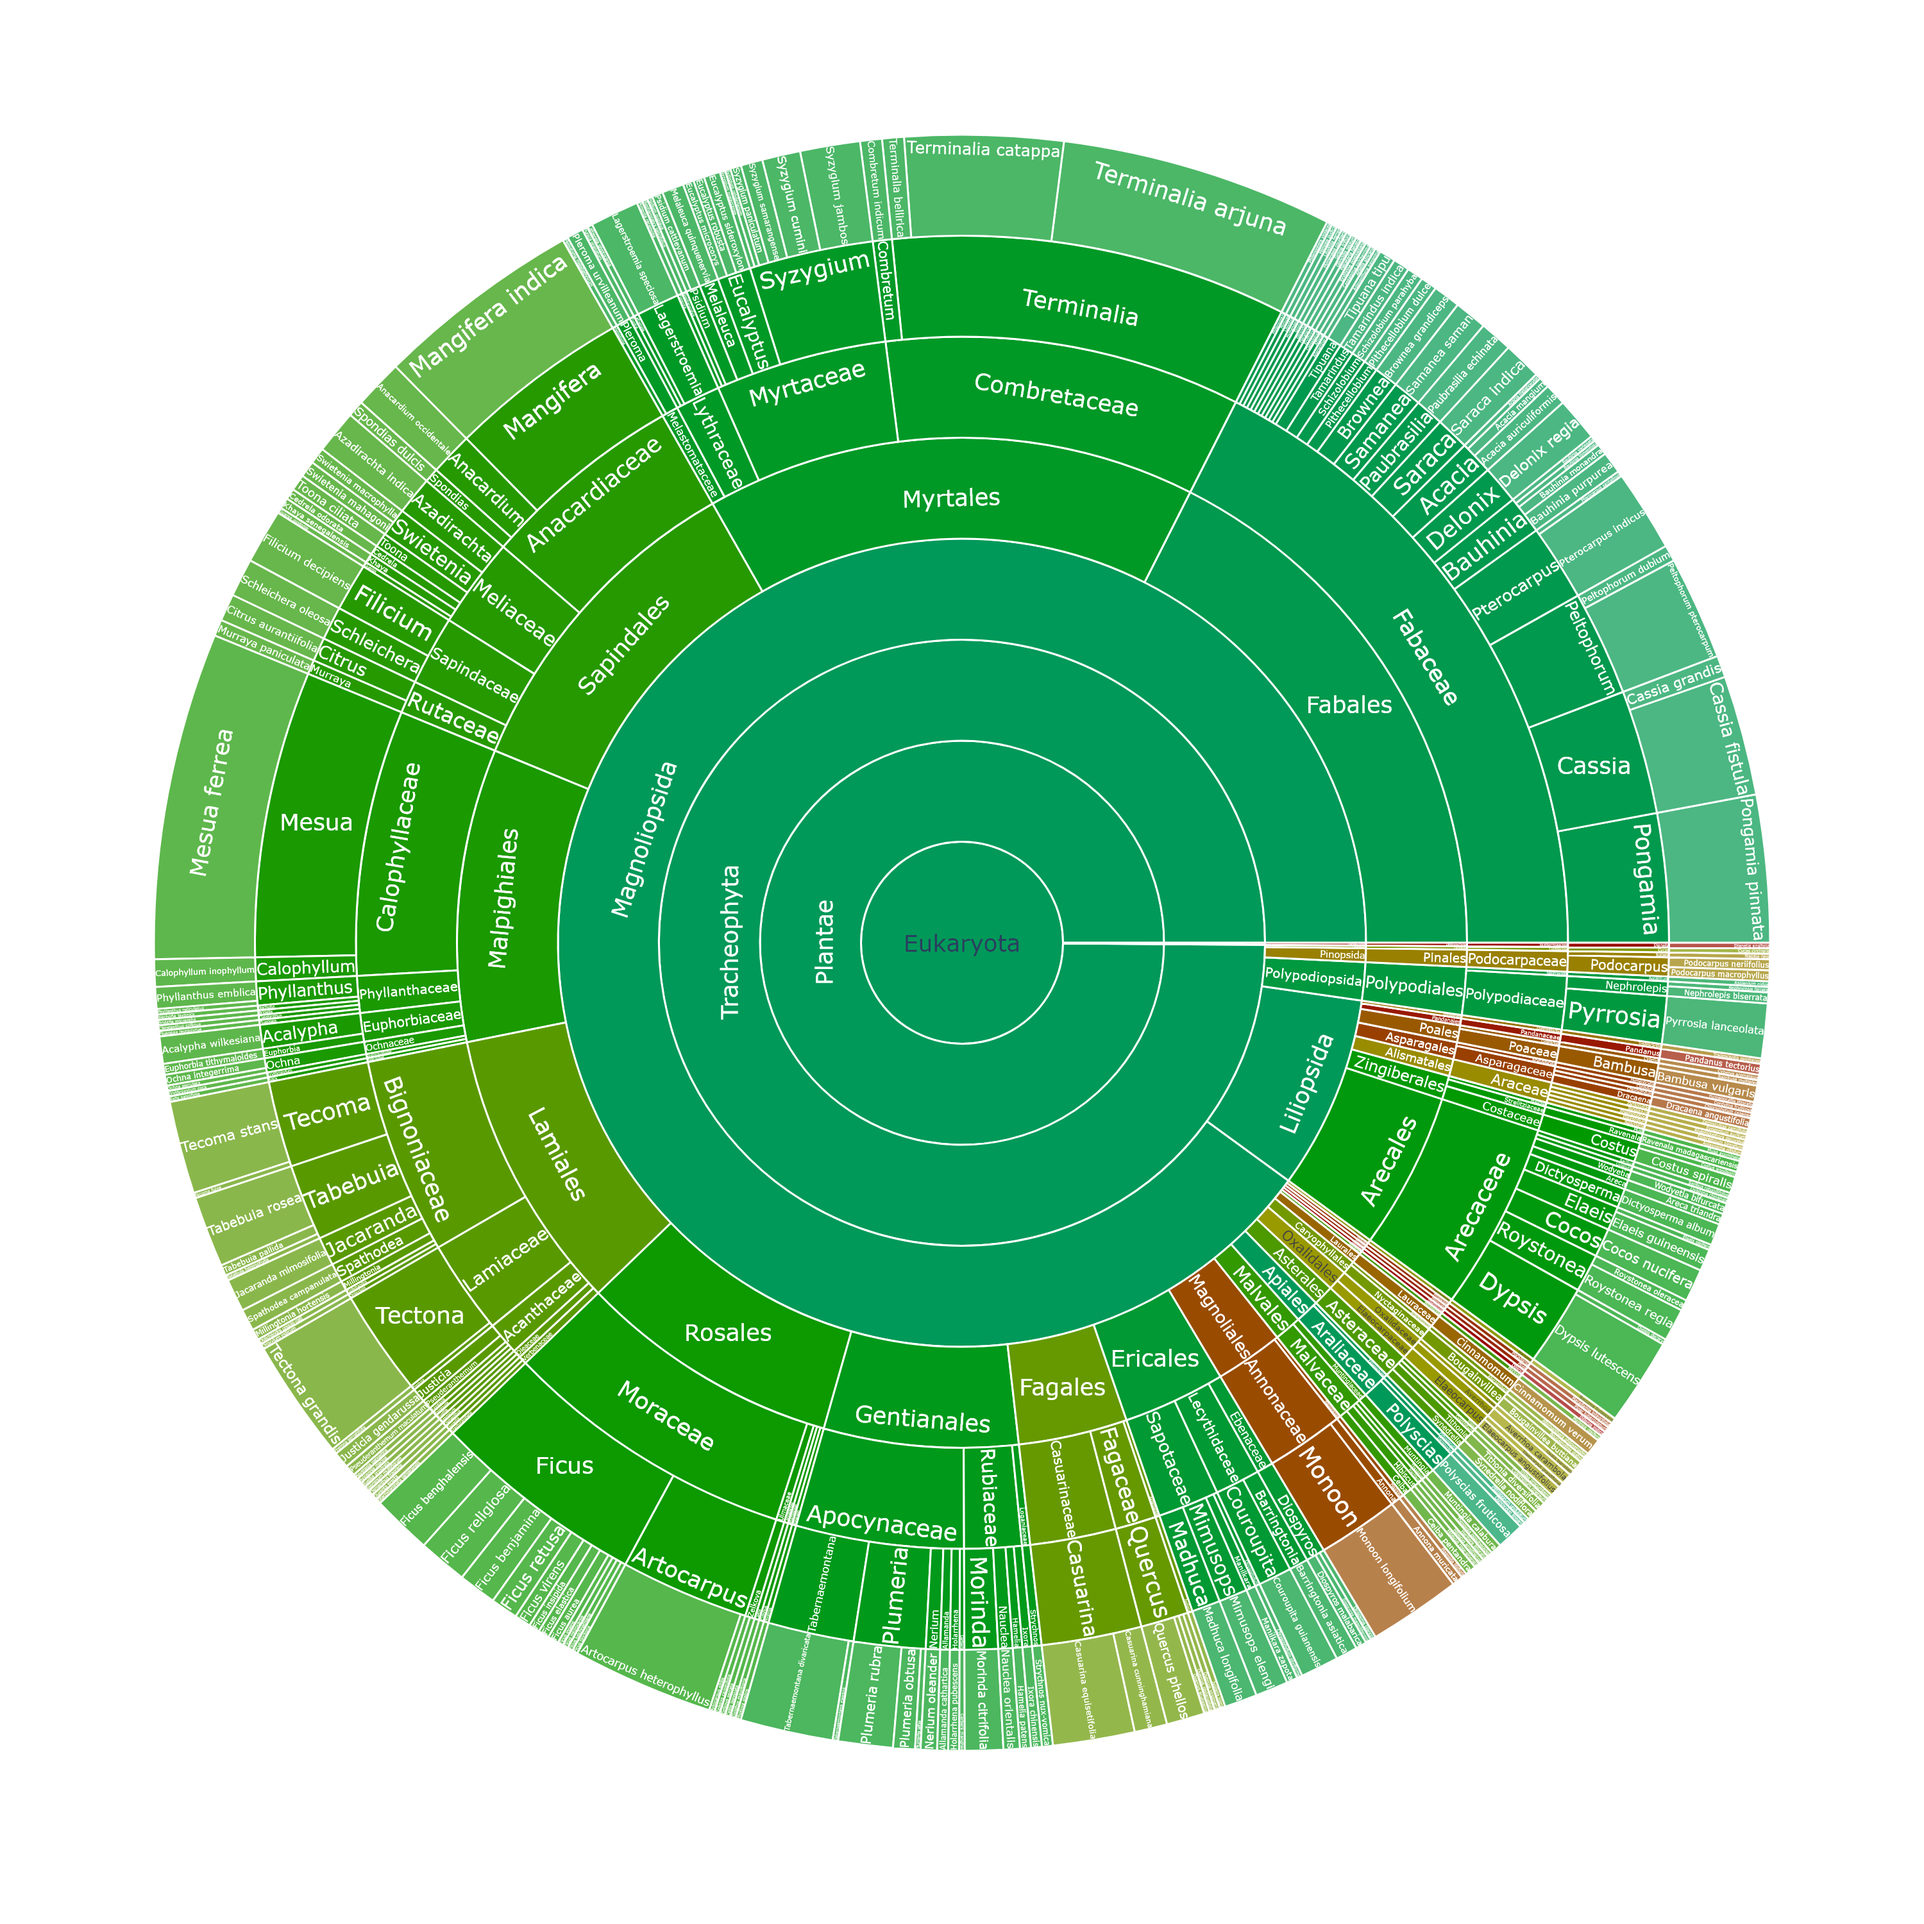
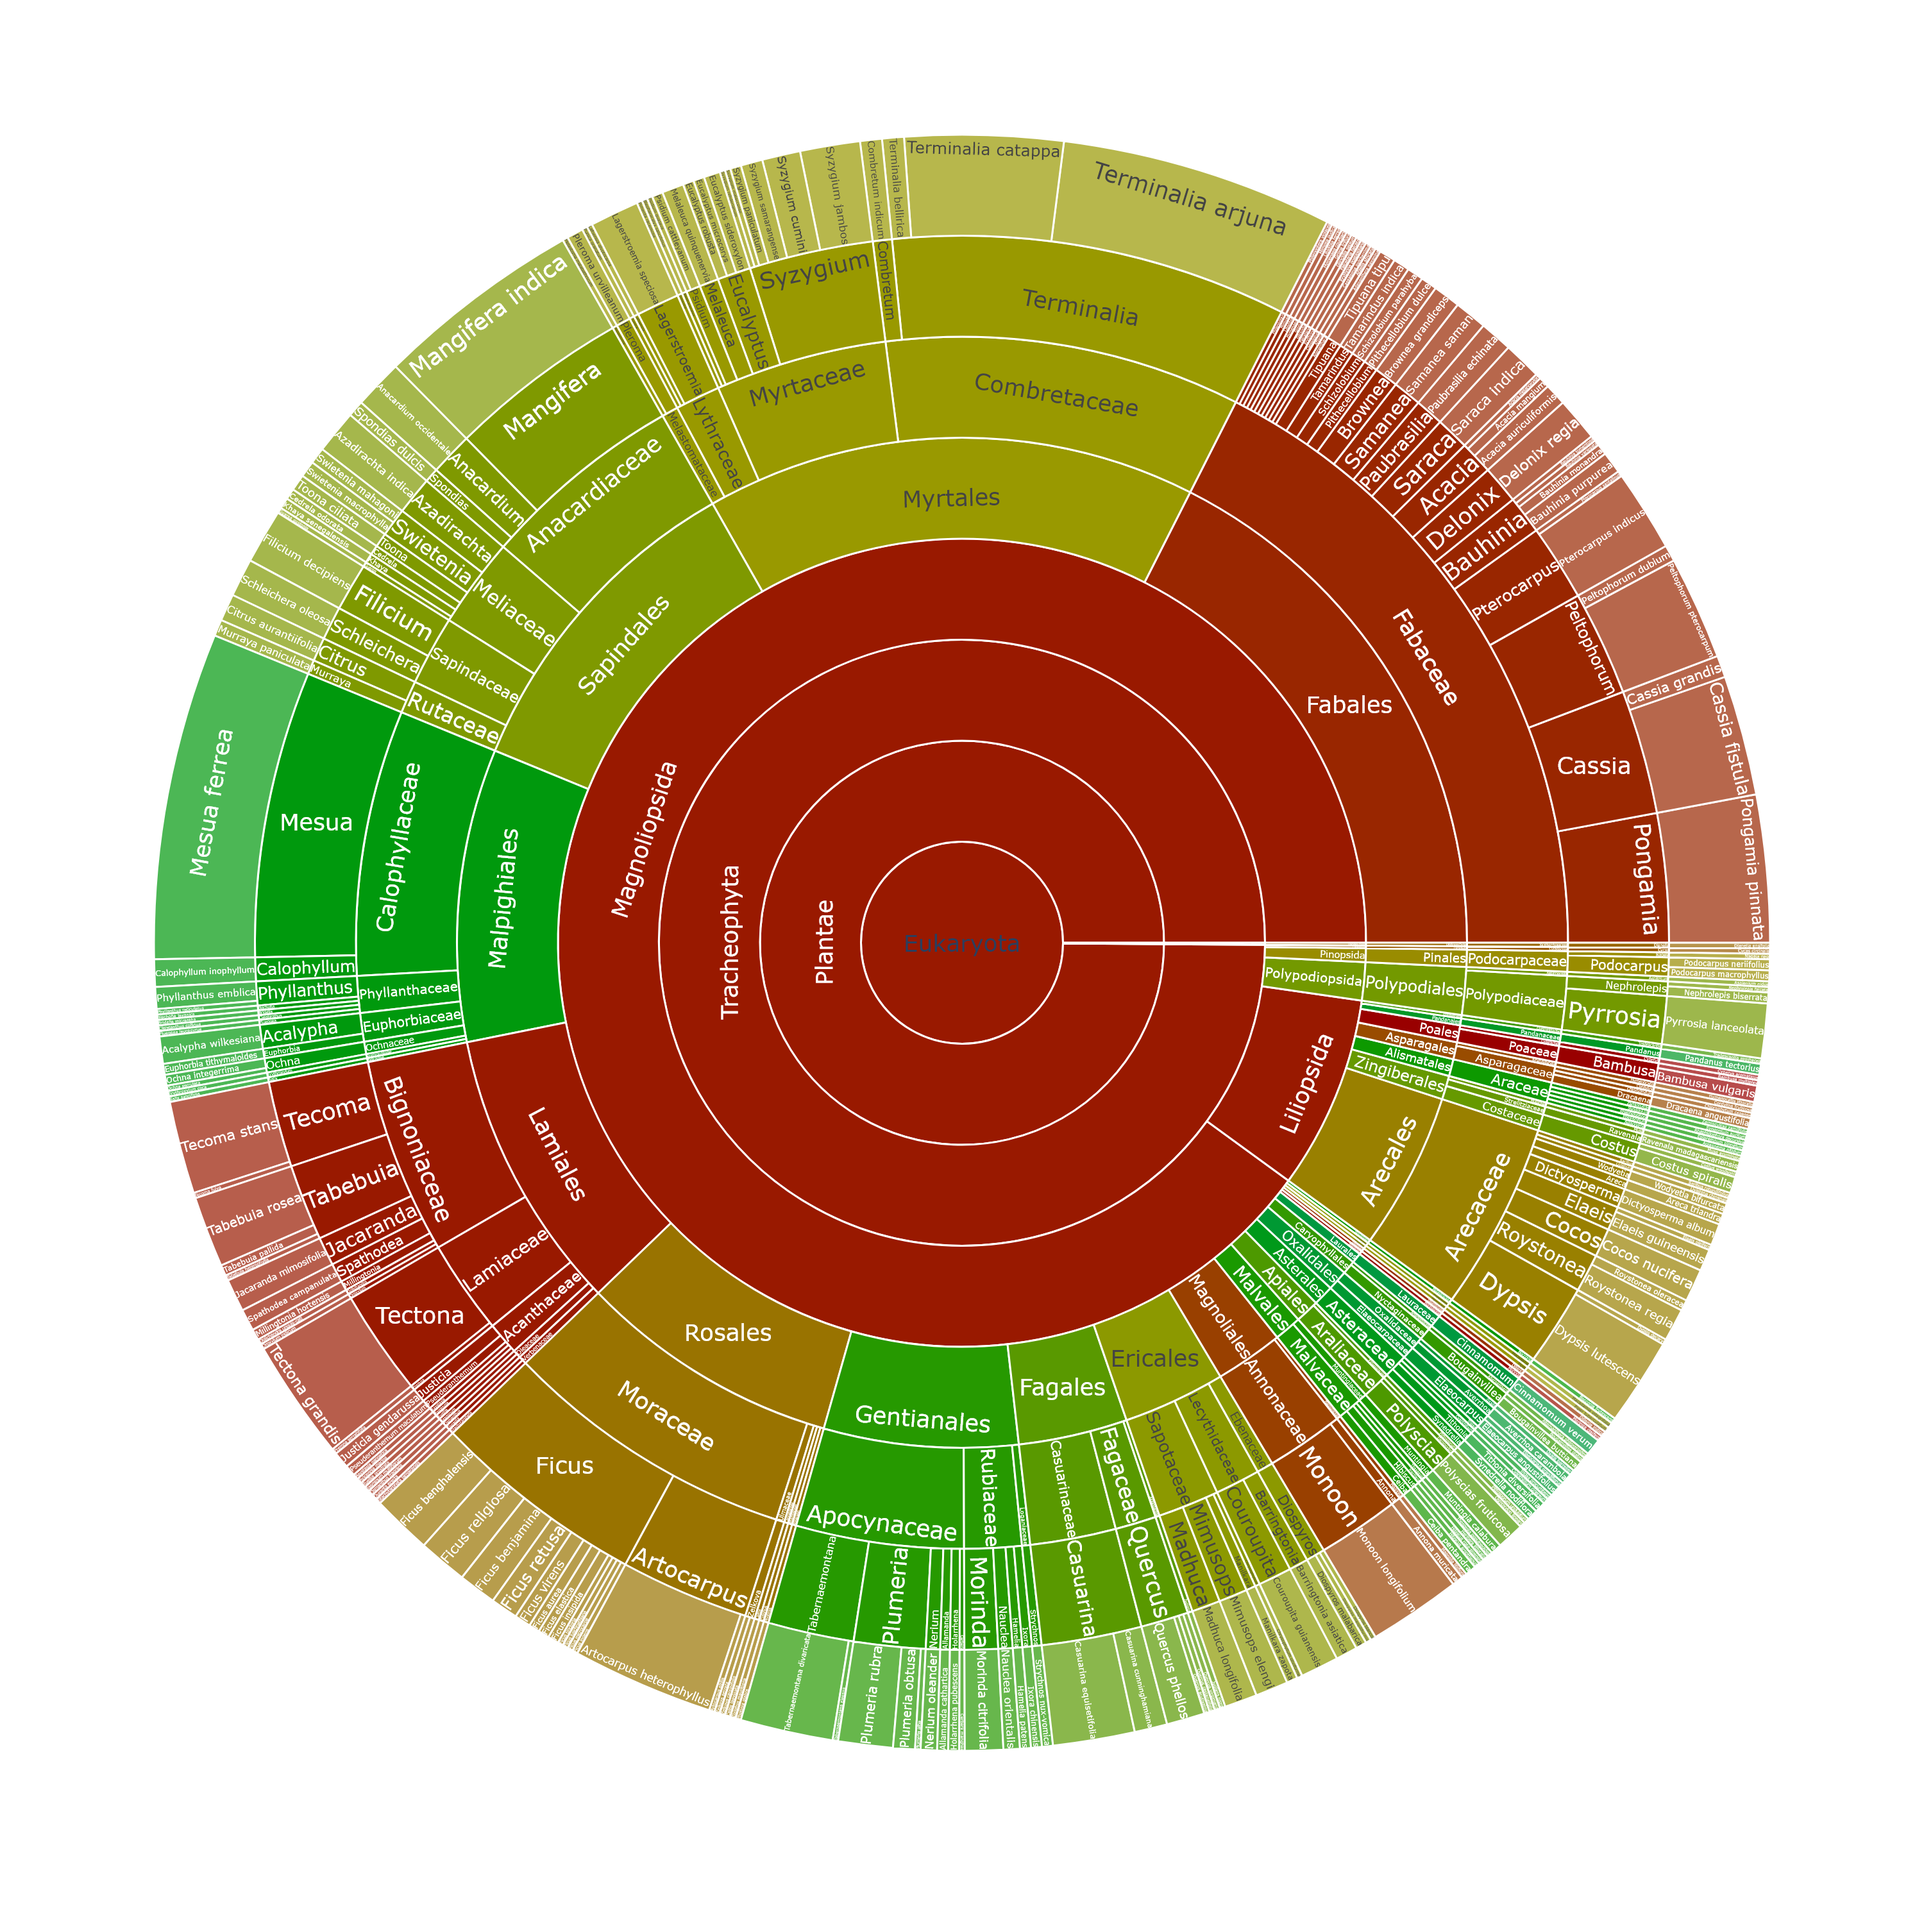
various

diff --git a/src/lk_plants/analysis/readme_pages/ReadMeSunburst.py b/src/lk_plants/analysis/readme_pages/ReadMeSunburst.py
@@ -1,5 +1,6 @@
 import os
 from functools import cached_property
+import random
 import pandas
 import plotly
 import plotly.express as px
@@ -53,10 +54,11 @@ class ReadMeSunburst(MarkdownPage, InfoReadMe):
     @staticmethod
     def get_color_sequence():
         sequence = []
-        for h in range(0, 160, 5):
+        
+        for h in range(0, 150, 5):
             color = f'hsl({h},100%,30%)'
             sequence.append(color)
-
+        random.shuffle(sequence)
         return sequence
         
 
